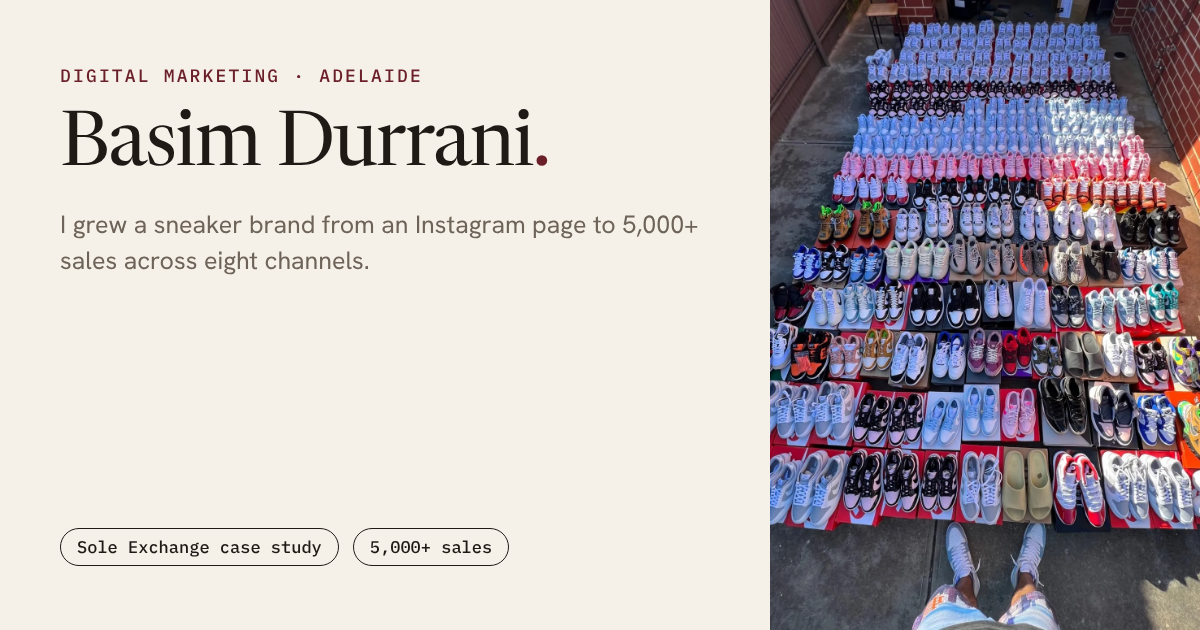
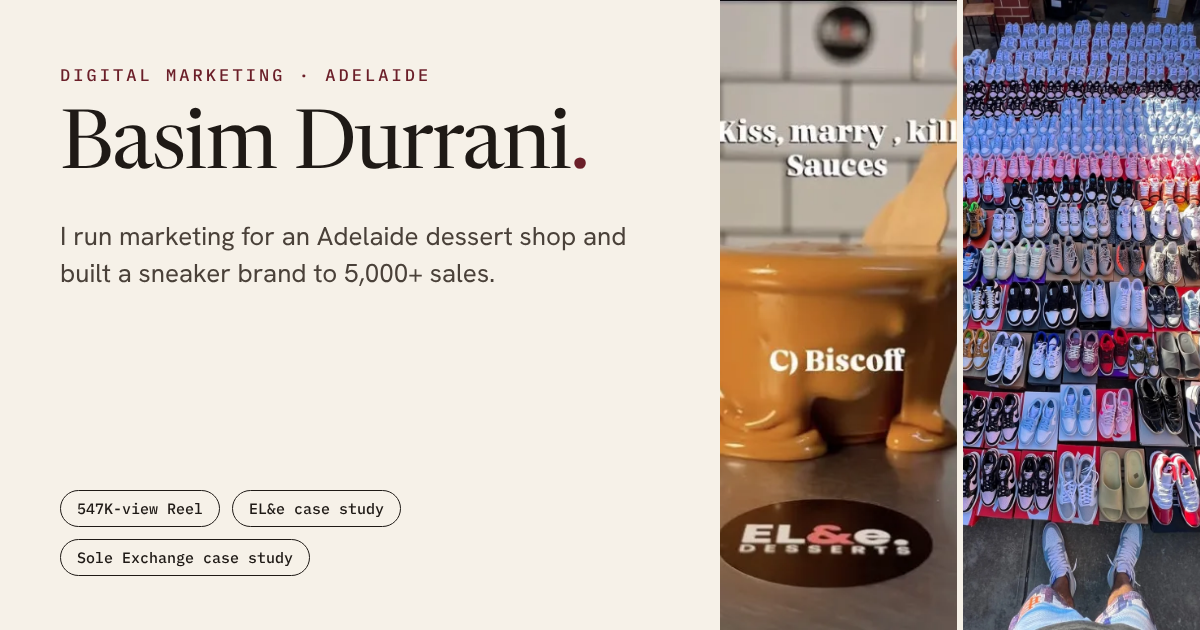
Per-page share images: EL&e, homepage refresh, Sole Exchange
Claude-Session: https://claude.ai/code/session_01Pg64Dy8m1k2PEC9i9XAq4K

diff --git a/index.html b/index.html
@@ -16,7 +16,7 @@
 <meta property="og:title" content="Basim Durrani · Digital Marketing">
 <meta property="og:description" content="Marketing student running social for an Adelaide dessert shop (547K-view Reel) after building a sneaker brand to 5,000+ sales.">
 <meta property="og:url" content="https://mubadu.github.io/portfolio/">
-<meta property="og:image" content="https://mubadu.github.io/portfolio/assets/og-image.png">
+<meta property="og:image" content="https://mubadu.github.io/portfolio/assets/og-image.png?v=2">
 <meta property="og:image:width" content="1200"><meta property="og:image:height" content="630">
 <meta name="twitter:card" content="summary_large_image">
 <link rel="preconnect" href="https://fonts.googleapis.com"><link rel="preconnect" href="https://fonts.gstatic.com" crossorigin>

diff --git a/sole-exchange.html b/sole-exchange.html
@@ -15,7 +15,7 @@
 <meta property="og:title" content="Sole Exchange · Case Study">
 <meta property="og:description" content="A 716-follower Instagram page, 5,000+ sales and eight sales channels. The full marketing breakdown.">
 <meta property="og:url" content="https://mubadu.github.io/portfolio/sole-exchange.html">
-<meta property="og:image" content="https://mubadu.github.io/portfolio/assets/og-image.png">
+<meta property="og:image" content="https://mubadu.github.io/portfolio/assets/og-sole-exchange.png?v=2">
 <meta property="og:image:width" content="1200"><meta property="og:image:height" content="630">
 <meta name="twitter:card" content="summary_large_image">
 <link rel="preconnect" href="https://fonts.googleapis.com"><link rel="preconnect" href="https://fonts.gstatic.com" crossorigin>

diff --git a/elande.html b/elande.html
@@ -15,7 +15,7 @@
 <meta property="og:title" content="EL&amp;e Desserts · Case Study">
 <meta property="og:description" content="0 to 1,900+ Instagram followers in two months and a 547K-view Reel series for a new Adelaide dessert shop.">
 <meta property="og:url" content="https://mubadu.github.io/portfolio/elande.html">
-<meta property="og:image" content="https://mubadu.github.io/portfolio/assets/og-image.png">
+<meta property="og:image" content="https://mubadu.github.io/portfolio/assets/og-elande.png?v=2">
 <meta property="og:image:width" content="1200"><meta property="og:image:height" content="630">
 <meta name="twitter:card" content="summary_large_image">
 <link rel="preconnect" href="https://fonts.googleapis.com"><link rel="preconnect" href="https://fonts.gstatic.com" crossorigin>
